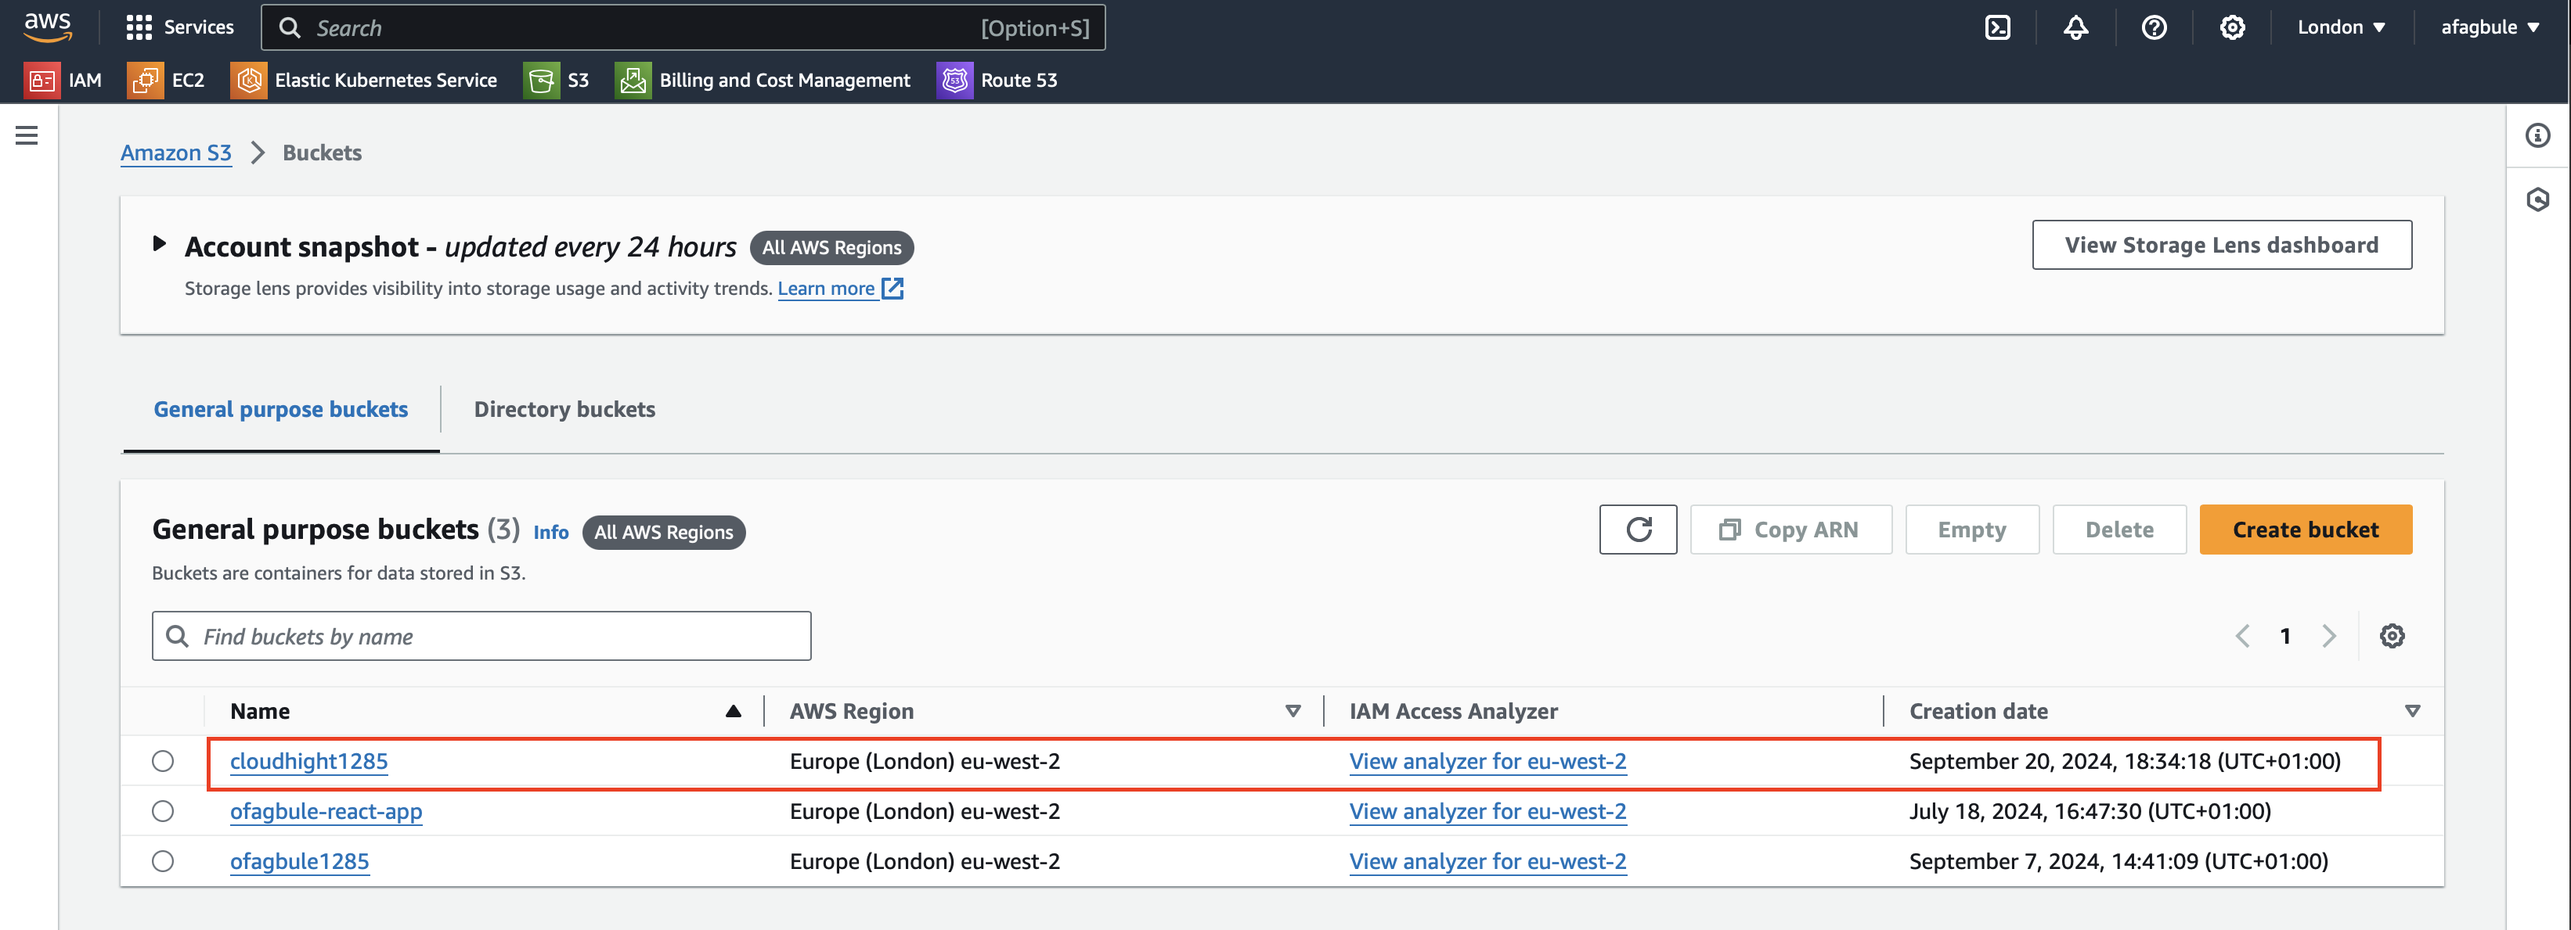
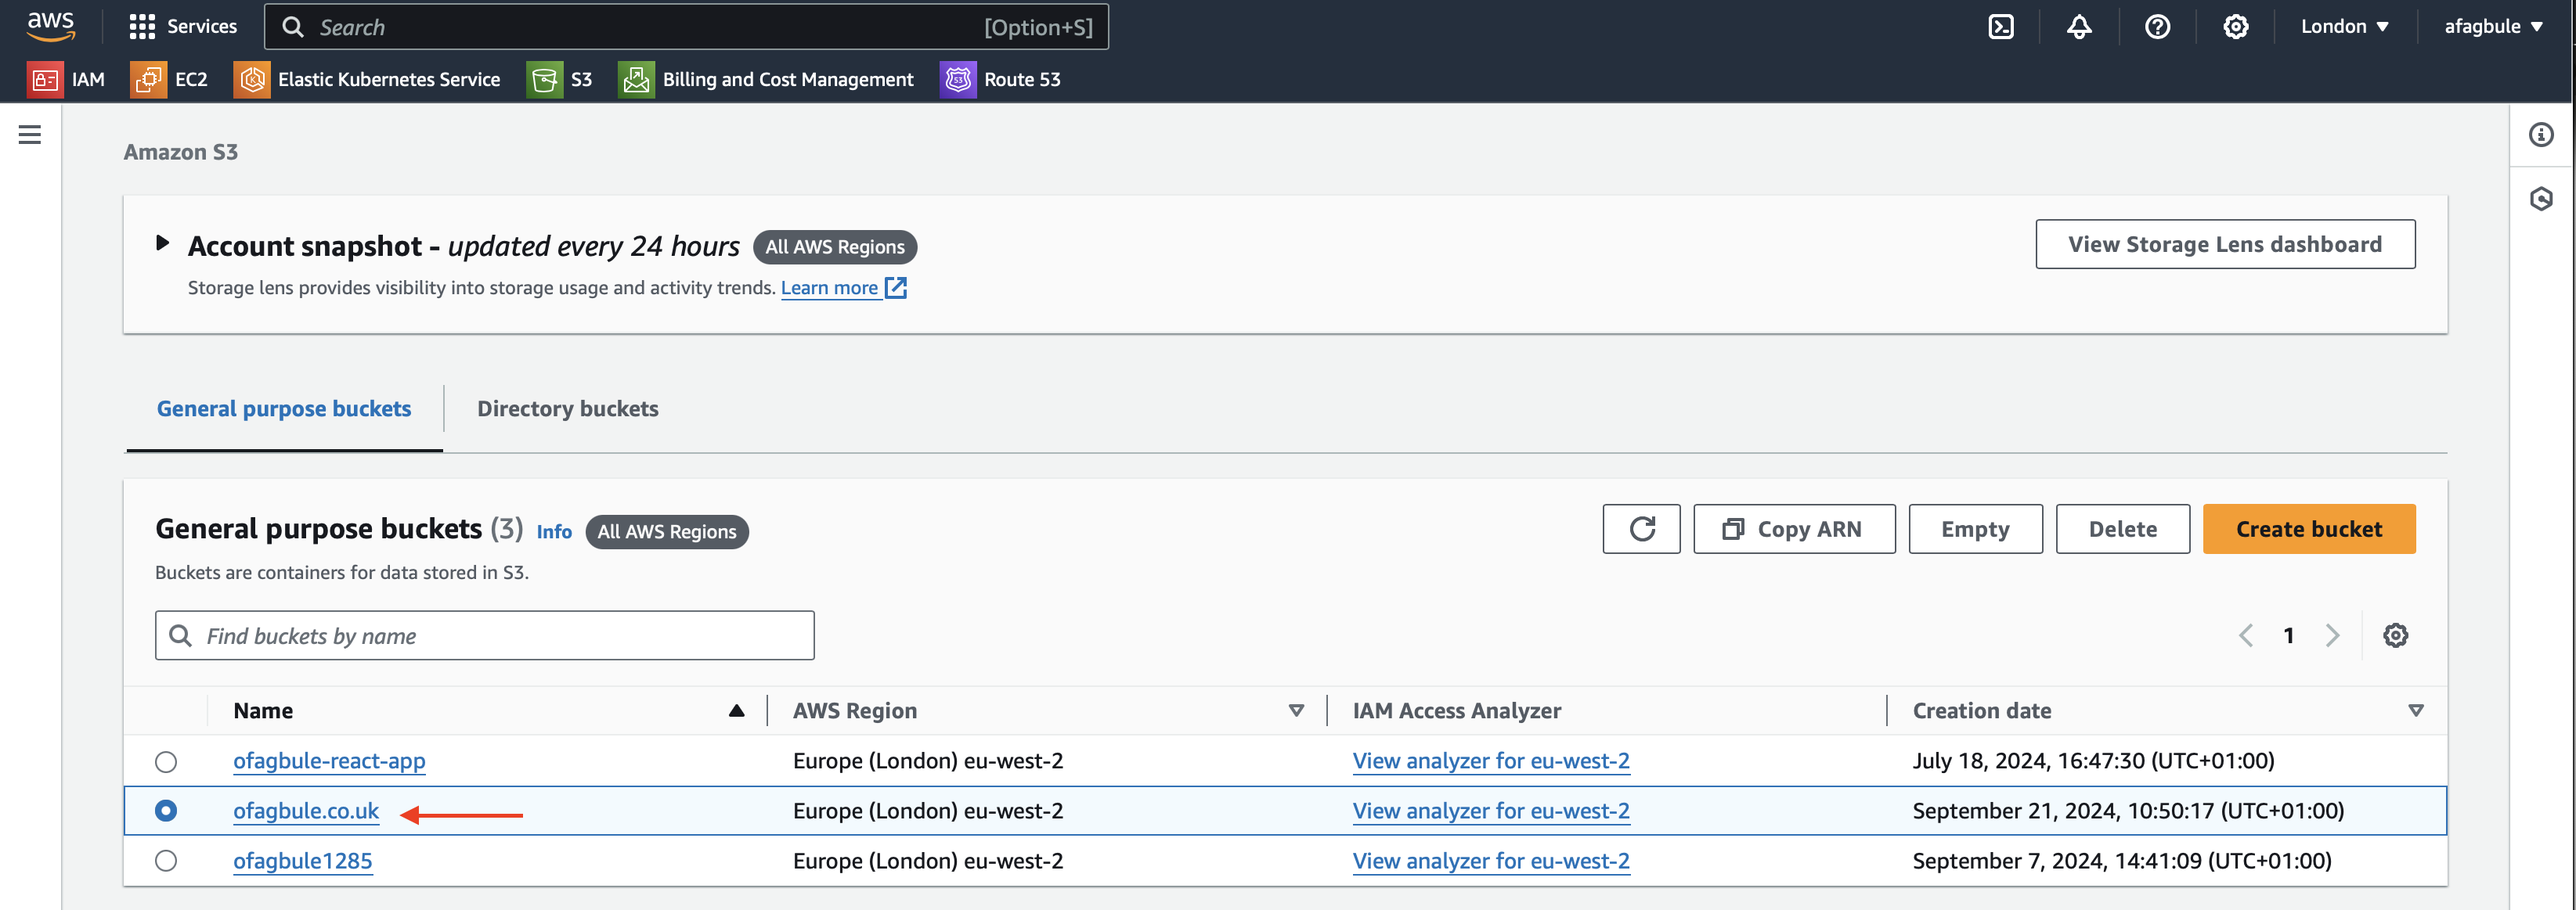
update to readmefile

diff --git a/Hosting-a-Static-Website-on-AWS-S3-with-Route53-Domain Name/static-website.md b/Hosting-a-Static-Website-on-AWS-S3-with-Route53-Domain Name/static-website.md
@@ -29,7 +29,6 @@ Amazon S3 offers several advantages for hosting static websites:
 3. Set up bucket policy for public access
 4. Configure the bucket for static website hosting
 5. Set up Route53 for custom domain (optional)
-6. Configure security settings
 
 ## Detailed Instructions
 
@@ -37,11 +36,11 @@ Amazon S3 offers several advantages for hosting static websites:
 
 1. Login to AWS console and click on Services, select S3 located under Storage.
 2. Click on "Create bucket".
-3. Give a unique name to your bucket. e.g cloudhight1285 
+3. Give a unique name to your bucket. e.g ofagbule.co.uk 
 4. Ensure "ACLs disabled" is selected (this is the default).
 5. Uncheck "Block all public access" and then acknowledge doing this.
 6. Select "Disable versioning".
-7. Add tags if desired. e.g cloudhight-project
+7. Add tags if desired. e.g ofagbule-project
 8. For encryption, keep the defaults:
    - Server-side encryption with AWS S3 managed keys (SSE-S3)
    - Enable Bucket Key
@@ -119,3 +118,62 @@ Amazon S3 offers several advantages for hosting static websites:
 8. Put this into a web browser to view the website
 
 ![Website Display](imgs/8.website_display.png)
+
+### 5. Set up Route53 for custom domain (optional)
+
+A domain name is a string of text that maps to a numeric IP address, used to access a website from client software. In plain English, a domain name is the text that a user types into a browser window to reach a particular website. For instance, the domain name for Facebook is facebook.com
+
+The actual address of a website is a complex numerical IP address (e.g. 103.21.244.0), but thanks to DNS, users are able to enter human-friendly domain names and be routed to the websites they are looking for. This process is known as a DNS lookup.
+
+Amazon Route 53 is a highly available and scalable cloud Domain Name System (DNS) web service. It is designed to give developers and businesses an extremely reliable and cost-effective way to route end users to Internet applications by translating names like www.example.com into the numeric IP addresses like 192.0.2.1 that computers use to connect to each other. Amazon Route 53 is fully compliant with IPv6 as well.
+
+Amazon Route 53 effectively connects user requests to infrastructure running in AWS – such as Amazon EC2 instances, Elastic Load Balancing load balancers, or Amazon S3 buckets – and can also be used to route users to infrastructure outside of AWS.
+
+#### Create Hosted Zone
+
+1. On the AWS Console, go to Route 53.
+2. Select "Create Hosted Zone".
+3. Enter your domain name (e.g., ofagbule.co.uk).
+4. Select "Public hosted zone".
+5. Click "Create hosted zone".
+
+![Hosted Zone Creation](imgs/10.hosted_zone_create.png)
+
+#### Create Record
+
+1. Click on "Create record".
+2. Under Record name leave blank to create a record for the root domain, then click on the toggle button to enable Alias. Now click on the drop-down box and select Alias to s3 website endpoint.
+3. A new drop-down box appears, select the Region where you provisioned the s3 bucket, then select your s3 bucket endpoint.
+4. Click "Create records".
+
+![Records Creation](imgs/9.record_creation.png)
+
+Copy the Name servers provided and go to your domain name provider dashboard to update your name server records.
+
+Note: Don't copy the dot at the end of each name server.
+
+![Name Servers](imgs/11.nameservers.png)
+
+Update your Name servers in your domain dashboard.
+
+Click on Update Name Server Details.
+
+Note: This may take a little time to propagate across the internet but eventually it should work.
+
+![Name Servers Update](imgs/11.nameservers.png)
+
+Now go to your browser and type in your domain name. Congratulations! You've just configured your static website with Route 53.
+
+![Website Display](imgs/15.ofagbule_website.png)
+
+## Troubleshooting
+
+- If your website isn't accessible, check your bucket policy and ensure public access is allowed.
+- For custom domain issues, verify your Route53 settings and ensure your domain's DNS is pointing to the correct name servers.
+- If images or styles aren't loading, check the file permissions and ensure the paths in your HTML are correct.
+
+## Additional Resources
+
+- [Amazon S3 Documentation](https://docs.aws.amazon.com/AmazonS3/latest/userguide/Welcome.html)
+- [Route53 Documentation](https://docs.aws.amazon.com/Route53/latest/DeveloperGuide/Welcome.html)
+- [AWS Pricing Calculator](https://calculator.aws/)
